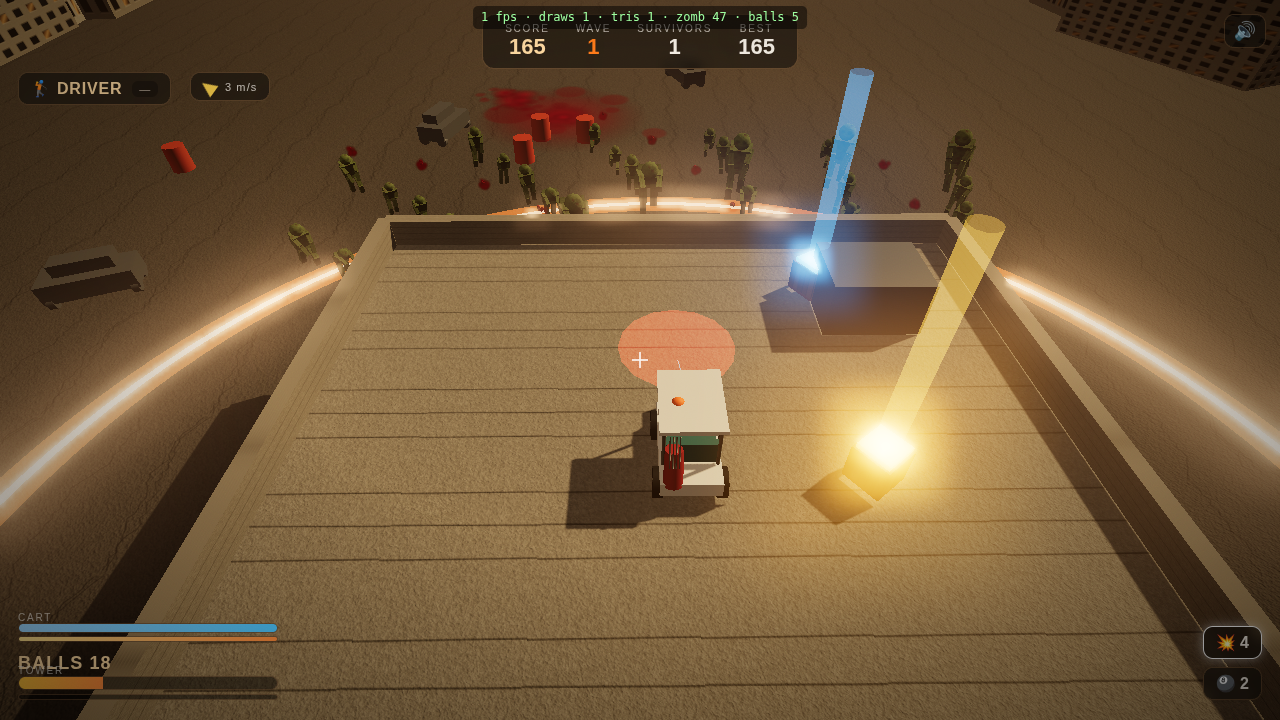
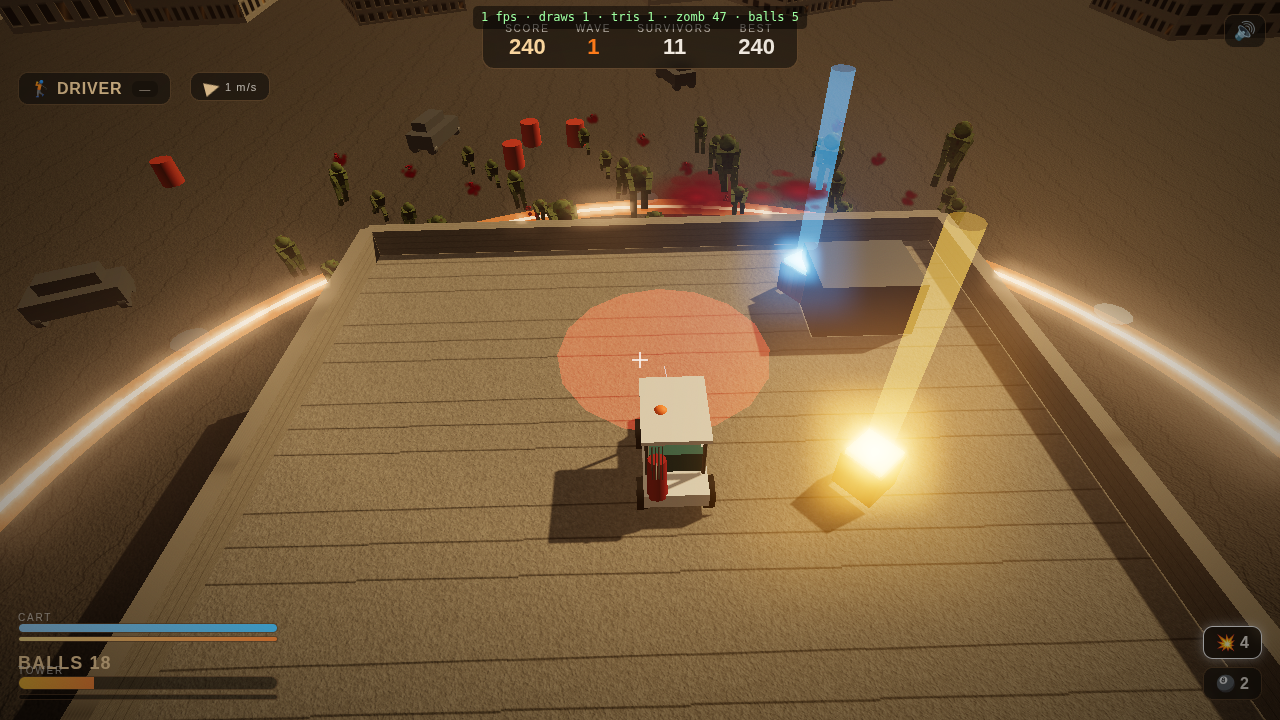
Slice 6: survivors + tower defense (rescue, turrets, spotters, barricades)
New survivors.js: rescue caged civilians (clear zombies / hit cage with a ball /
drive over) -> spendable survivor currency; staff perimeter posts as auto-turrets
(pooled projectiles -> zombies.damage, score on kill), spotters (slow), and
barricades (block + slow zombie pathing via blockAt, chewable HP). Build UX (aim
a post, cycle type, confirm/upgrade/sell) for keyboard/gamepad/touch; build menu
+ integrity bar + survivors counter HUD. Instanced rendering (~7 draw calls).
Verified: cages spawn, rescue +1 survivor, turret kills, barricade blocks; zero errors.

Claude-Session: https://claude.ai/code/session_01Mg4jfxrjoLk6LwHjJKuzM6

diff --git a/public/js/survivors.js b/public/js/survivors.js
@@ -1,0 +1,332 @@
+// =============================================================
+// Survivors — rescue + tower-defense layer.
+// Rescue caged civilians (clear zombies / hit cage with a ball / drive over),
+// spend them to staff perimeter posts as auto-turrets / spotters / barricades.
+// Instanced rendering, pooled projectiles, zero per-frame allocation.
+// =============================================================
+import * as THREE from 'three';
+import { CONFIG } from './config.js';
+import { makeRNG, mergeGeometries, clamp, TAU } from './utils.js';
+import { STR } from '../strings.js';
+
+const S = CONFIG.surv;
+const angDist = (a, b) => Math.abs(Math.atan2(Math.sin(a - b), Math.cos(a - b)));
+
+export class Survivors {
+  constructor(scene, ctx) {
+    this.ctx = ctx;
+    this.rng = makeRNG(7777);
+    this.buildMode = false;
+    this.pendingBuild = 'turret';
+    this.selectedPost = 0;
+    this._selStepT = 0;
+
+    // ---- geometries ----
+    const M = (geo, x, y, z, ry) => { const m = new THREE.Matrix4(); const q = new THREE.Quaternion(); if (ry) q.setFromAxisAngle(new THREE.Vector3(0, 1, 0), ry); m.compose(new THREE.Vector3(x, y, z), q, new THREE.Vector3(1, 1, 1)); return { geo, mat4: m }; };
+    const bodyGeo = mergeGeometries(THREE, [
+      M(new THREE.BoxGeometry(0.5, 0.9, 0.3), 0, 1.0, 0), M(new THREE.SphereGeometry(0.22, 10, 8), 0, 1.62, 0),
+      M(new THREE.BoxGeometry(0.18, 0.8, 0.18), 0.14, 0.4, 0), M(new THREE.BoxGeometry(0.18, 0.8, 0.18), -0.14, 0.4, 0),
+      M(new THREE.BoxGeometry(0.15, 0.7, 0.15), 0.34, 1.05, 0), M(new THREE.BoxGeometry(0.15, 0.7, 0.15), -0.34, 1.05, 0),
+    ]);
+    const cageGeo = mergeGeometries(THREE, [
+      M(new THREE.BoxGeometry(0.1, 2.2, 0.1), 0.7, 1.1, 0.7), M(new THREE.BoxGeometry(0.1, 2.2, 0.1), -0.7, 1.1, 0.7),
+      M(new THREE.BoxGeometry(0.1, 2.2, 0.1), 0.7, 1.1, -0.7), M(new THREE.BoxGeometry(0.1, 2.2, 0.1), -0.7, 1.1, -0.7),
+      M(new THREE.BoxGeometry(1.5, 0.12, 1.5), 0, 2.2, 0),
+    ]);
+    const turretGeo = mergeGeometries(THREE, [
+      M(new THREE.CylinderGeometry(0.85, 1.0, 0.6, 12), 0, 0.3, 0), M(new THREE.BoxGeometry(0.5, 1.3, 0.5), 0, 1.1, 0),
+      M(new THREE.BoxGeometry(0.28, 0.28, 1.8), 0, 1.6, 0.7),
+    ]);
+    const wallGeo = new THREE.BoxGeometry(9, 2.2, 0.9);
+    const padGeo = new THREE.CylinderGeometry(1.3, 1.3, 0.18, 14);
+
+    const bodyMat = new THREE.MeshStandardMaterial({ color: 0xcfe2ff, roughness: 0.6, metalness: 0.0 });
+    const cageMat = new THREE.MeshStandardMaterial({ color: 0x3a3d42, roughness: 0.6, metalness: 0.6 });
+    const turretMat = new THREE.MeshStandardMaterial({ color: CONFIG.col.turret, roughness: 0.4, metalness: 0.7 });
+    const wallMat = new THREE.MeshStandardMaterial({ color: CONFIG.col.barricade, roughness: 0.8, metalness: 0.1 });
+    const padMat = new THREE.MeshStandardMaterial({ color: 0x6a6f74, roughness: 0.5, metalness: 0.4, emissive: 0x223036, emissiveIntensity: 0.4 });
+    const spotterMat = new THREE.MeshStandardMaterial({ color: CONFIG.col.spotter, emissive: CONFIG.col.spotter, emissiveIntensity: 0.8, roughness: 0.4 });
+    const projMat = new THREE.MeshStandardMaterial({ color: 0xffe08a, emissive: 0xffb030, emissiveIntensity: 1.4, roughness: 0.4 });
+    const spotterGeo = mergeGeometries(THREE, [M(new THREE.CylinderGeometry(0.15, 0.15, 2.4, 8), 0, 1.2, 0), M(new THREE.SphereGeometry(0.42, 12, 10), 0, 2.6, 0)]);
+
+    const inst = (geo, mat, n, shadow) => { const m = new THREE.InstancedMesh(geo, mat, n); m.frustumCulled = false; m.castShadow = !!shadow; m.receiveShadow = false; m.instanceMatrix.setUsage(THREE.DynamicDrawUsage); scene.add(m); return m; };
+    this.bodyMesh = inst(bodyGeo, bodyMat, S.maxCages, true);
+    this.cageMesh = inst(cageGeo, cageMat, S.maxCages, false);
+    this.padMesh = inst(padGeo, padMat, S.postCount, false);
+    this.turretMesh = inst(turretGeo, turretMat, S.postCount, true);
+    this.wallMesh = inst(wallGeo, wallMat, S.postCount, true);
+    this.spotterMesh = inst(spotterGeo, spotterMat, S.postCount, false);
+    this.projMesh = inst(new THREE.SphereGeometry(S.projRadius, 8, 6), projMat, S.projMax, false);
+
+    // selection ring
+    this.selRing = new THREE.Mesh(new THREE.RingGeometry(1.5, 2.1, 24), new THREE.MeshBasicMaterial({ color: 0xffffff, transparent: true, opacity: 0.8, side: THREE.DoubleSide, depthWrite: false }));
+    this.selRing.rotation.x = -Math.PI / 2; this.selRing.visible = false; scene.add(this.selRing);
+
+    // ---- pools ----
+    this.surv = [];
+    for (let i = 0; i < S.maxCages; i++) this.surv.push({ state: 'idle', x: 0, z: 0, cageHP: 0, freeT: 0, homeX: 0, homeZ: 0, threatened: false, clearT: 0, phase: 0, slot: i });
+    this.posts = [];
+    for (let i = 0; i < S.postCount; i++) {
+      const ang = (i / S.postCount) * TAU;
+      this.posts.push({ id: i, angle: ang, x: Math.sin(ang) * S.postRadius, z: Math.cos(ang) * S.postRadius, yaw: ang, build: 'empty', level: 0, manned: 0, target: null, cooldown: 0, heat: 0, retargetT: 0, hp: 0, maxHP: 0, spent: 0 });
+    }
+    this.proj = [];
+    for (let i = 0; i < S.projMax; i++) this.proj.push({ active: false, x: 0, y: 0, z: 0, vx: 0, vy: 0, vz: 0, life: 0, dmg: 0 });
+    this.projCursor = 0;
+
+    // scratch
+    this._m = new THREE.Matrix4(); this._q = new THREE.Quaternion(); this._e = new THREE.Euler();
+    this._v = new THREE.Vector3(); this._s = new THREE.Vector3(); this._hidden = new THREE.Matrix4().makeScale(0, 0, 0);
+    this._up = new THREE.Vector3(0, 1, 0);
+
+    this.reset();
+  }
+
+  reset() {
+    for (const s of this.surv) s.state = 'idle';
+    for (const p of this.posts) { p.build = 'empty'; p.level = 0; p.manned = 0; p.hp = 0; p.target = null; p.spent = 0; }
+    for (const p of this.proj) p.active = false;
+    this.buildMode = false; this.pendingBuild = 'turret'; this.selectedPost = 0;
+  }
+
+  onWaveStart(wave) {
+    let active = this.surv.filter((s) => s.state !== 'idle' && s.state !== 'safe').length;
+    for (let k = 0; k < S.cagesPerWave && active < S.maxActiveCages; k++) { if (this._spawnCage()) active++; }
+  }
+  _spawnCage() {
+    const s = this.surv.find((x) => x.state === 'idle');
+    if (!s) return false;
+    const ang = this.rng() * TAU;
+    const rad = this.rng() < S.nearCageChance ? this.rng.range(28, 40) : this.rng.range(S.cageRadMin, S.cageRadMax);
+    s.x = Math.sin(ang) * rad; s.z = Math.cos(ang) * rad;
+    s.state = 'caged'; s.cageHP = S.cageHP; s.threatened = false; s.clearT = 0; s.phase = this.rng() * TAU;
+    return true;
+  }
+
+  // ---- rescue hooks ----
+  ballHit(pos, r, explosive) {
+    for (const s of this.surv) {
+      if (s.state !== 'caged') continue;
+      const dx = pos.x - s.x, dz = pos.z - s.z;
+      if (dx * dx + dz * dz < (1.6 + r) * (1.6 + r)) {
+        if (explosive) s.cageHP = 0; else s.cageHP -= S.ballCageDamage;
+        if (s.cageHP <= 0) this._free(s);
+        return true;
+      }
+    }
+    return false;
+  }
+  blockAt(angle) {
+    for (const p of this.posts) {
+      if (p.build !== 'barricade' || p.hp <= 0) continue;
+      if (angDist(angle, p.angle) < S.barricadeArc) return { blocked: true, slow: S.barricadeSlow[p.level], post: p };
+    }
+    return { blocked: false, slow: 1, post: null };
+  }
+  damageBarricade(post, amount) {
+    if (post.build !== 'barricade' || post.hp <= 0) return;
+    post.hp -= amount;
+    if (post.hp <= 0) { post.hp = 0; post.build = 'empty'; post.level = 0; post.spent = 0; this.ctx.effects.dust(this._v.set(post.x, 1, post.z)); this.ctx.game && this.ctx.game.flashNoAmmo && 0; }
+  }
+
+  _free(s) {
+    s.state = 'freeing'; s.freeT = 0;
+    this.ctx.effects.greenPuff(this._v.set(s.x, 1.6, s.z));
+    this.ctx.audio.pickup();
+  }
+  _arrive(s) {
+    s.state = 'idle';
+    this.ctx.game.addSurvivors(1);
+    this.ctx.game.addScore(S.scorePerRescue, false);
+  }
+
+  // ---- build / economy ----
+  toggleBuild() { this.buildMode = !this.buildMode; }
+  cycleBuild(dir) { const order = ['turret', 'spotter', 'barricade']; let i = order.indexOf(this.pendingBuild); i = (i + (dir < 0 ? -1 : 1) + order.length) % order.length; this.pendingBuild = order[i]; }
+  pickBuild(i) { const order = ['turret', 'spotter', 'barricade']; if (order[i]) { this.pendingBuild = order[i]; this.confirmBuild(); } }
+  stepPost(dir) { this.selectedPost = (this.selectedPost + (dir < 0 ? -1 : 1) + this.posts.length) % this.posts.length; this._selStepT = 3; }
+
+  confirmBuild() {
+    if (!this.buildMode) return;
+    const post = this.posts[this.selectedPost];
+    const type = this.pendingBuild;
+    if (post.build === 'empty') {
+      const cost = type === 'turret' ? S.turret[1].cost : type === 'spotter' ? S.spotterCost : S.barricadeCost;
+      if (!this.ctx.game.spendSurvivors(cost)) { this.ctx.game.flashNoAmmo(); return; }
+      post.build = type; post.level = 1; post.spent = cost;
+      if (type === 'turret') post.manned = S.turret[1].manned;
+      if (type === 'barricade') { post.hp = S.barricadeHP[1]; post.maxHP = S.barricadeHP[1]; }
+      this.ctx.audio.pickup();
+    } else if (post.build === type) {
+      if (type === 'turret' && post.level < 3) {
+        const cost = S.turret[post.level + 1].cost;
+        if (!this.ctx.game.spendSurvivors(cost)) { this.ctx.game.flashNoAmmo(); return; }
+        post.level++; post.spent += cost; post.manned = S.turret[post.level].manned; this.ctx.audio.pickup();
+      } else if (type === 'barricade' && post.level < 3) {
+        if (!this.ctx.game.spendSurvivors(S.barricadeUpgradeCost)) { this.ctx.game.flashNoAmmo(); return; }
+        post.level++; post.spent += S.barricadeUpgradeCost; post.hp = S.barricadeHP[post.level]; post.maxHP = S.barricadeHP[post.level]; this.ctx.audio.pickup();
+      }
+    }
+  }
+  sellSelected() {
+    const post = this.posts[this.selectedPost];
+    if (post.build === 'empty') return;
+    const refund = Math.floor(post.spent * S.sellRefundFrac);
+    if (refund > 0) this.ctx.game.addSurvivors(refund);
+    post.build = 'empty'; post.level = 0; post.manned = 0; post.hp = 0; post.spent = 0; post.target = null;
+  }
+
+  _aimedPostId() {
+    const ay = this.ctx.golf.aimYaw;
+    let best = 0, bestd = Infinity;
+    for (const p of this.posts) { const d = angDist(ay, p.angle); if (d < bestd) { bestd = d; best = p.id; } }
+    return best;
+  }
+
+  // ---- turrets ----
+  _acquire(post) {
+    const range = S.turret[post.level].range, rr = range * range;
+    let best = null, bestScore = Infinity;
+    for (const z of this.ctx.zombies.z) {
+      if (!z.alive) continue;
+      const dx = z.x - post.x, dz = z.zz - post.z, d2 = dx * dx + dz * dz;
+      if (d2 > rr) continue;
+      const score = d2 - S.perimeterBias * (CONFIG.spawnRadius - Math.hypot(z.x, z.zz));
+      if (score < bestScore) { bestScore = score; best = z; }
+    }
+    post.target = best;
+  }
+  _fire(post) {
+    const st = S.turret[post.level], t = post.target;
+    const p = this.proj[this.projCursor]; this.projCursor = (this.projCursor + 1) % this.proj.length;
+    const mx = post.x, my = S.muzzleY, mz = post.z;
+    let dx = t.x - mx, dz = t.zz - mz; const d = Math.hypot(dx, dz) || 1; dx /= d; dz /= d;
+    p.active = true; p.x = mx; p.y = my; p.z = mz; p.vx = dx * st.projSpeed; p.vy = 0; p.vz = dz * st.projSpeed;
+    p.life = S.projLife; p.dmg = st.damage; post.heat = 1;
+    this.ctx.audio.turretShot ? this.ctx.audio.turretShot() : 0;
+  }
+
+  update(dt) {
+    const zb = this.ctx.zombies, pl = this.ctx.player;
+    // reset spotter slow each frame (zombies read it next frame)
+    for (const z of zb.z) if (z.alive) z.slow = 1;
+
+    // rescue
+    for (const s of this.surv) {
+      if (s.state === 'caged') {
+        let near = 0;
+        for (const z of zb.z) { if (!z.alive) continue; const dx = z.x - s.x, dz = z.zz - s.z; if (dx * dx + dz * dz < S.clearRadius * S.clearRadius) near++; }
+        if (near > 0) { s.threatened = true; s.clearT = 0; }
+        else if (s.threatened) { s.clearT += dt; if (s.clearT >= S.clearHold) this._free(s); }
+        const cdx = pl.pos.x - s.x, cdz = pl.pos.z - s.z;
+        if (cdx * cdx + cdz * cdz < S.cartRescueRadius * S.cartRescueRadius) this._free(s);
+      } else if (s.state === 'freeing') {
+        s.freeT += dt;
+        if (s.freeT >= S.freeDur) { s.state = 'running'; const d = Math.hypot(s.x, s.z) || 1; const tgt = CONFIG.rooftopSize / 2 + 3; s.homeX = s.x / d * tgt; s.homeZ = s.z / d * tgt; this.ctx.game.flashSurvFreed?.(); }
+      } else if (s.state === 'running') {
+        s.phase += dt * 10;
+        const dx = s.homeX - s.x, dz = s.homeZ - s.z, d = Math.hypot(dx, dz) || 1;
+        const step = S.runSpeed * dt;
+        if (d < 2) this._arrive(s);
+        else { s.x += dx / d * step; s.z += dz / d * step; }
+      }
+    }
+
+    // turrets + spotters
+    for (const post of this.posts) {
+      if (post.build === 'turret') {
+        post.cooldown -= dt; post.heat = Math.max(0, post.heat - dt * 4); post.retargetT -= dt;
+        const t = post.target;
+        const valid = t && t.alive && (t.x - post.x) * (t.x - post.x) + (t.zz - post.z) * (t.zz - post.z) <= S.turret[post.level].range * S.turret[post.level].range;
+        if (!valid && post.retargetT <= 0) { this._acquire(post); post.retargetT = S.retargetInterval; }
+        if (post.target && post.target.alive && post.cooldown <= 0) {
+          this._fire(post);
+          if (post.level >= 3) this._fire(post);
+          post.cooldown = 1 / S.turret[post.level].rate;
+        }
+      } else if (post.build === 'spotter') {
+        for (const z of zb.z) { if (!z.alive) continue; const dx = z.x - post.x, dz = z.zz - post.z; if (dx * dx + dz * dz < S.spotterRadius * S.spotterRadius) z.slow = Math.min(z.slow, S.spotterSlow); }
+      }
+    }
+
+    // projectiles
+    for (const p of this.proj) {
+      if (!p.active) continue;
+      p.life -= dt; if (p.life <= 0) { p.active = false; continue; }
+      p.x += p.vx * dt; p.y += p.vy * dt; p.z += p.vz * dt;
+      const hit = zb.hitTestAt(p.x, p.z, S.projRadius);
+      if (hit) { const died = zb.damage(hit, p.dmg); if (died) this.ctx.game.addScore(CONFIG.scorePerKill, false); this.ctx.effects.hit(this._v.set(p.x, p.y, p.z)); p.active = false; }
+    }
+
+    // selection
+    if (this.buildMode) { if (this._selStepT > 0) this._selStepT -= dt; else this.selectedPost = this._aimedPostId(); }
+
+    this._render();
+  }
+
+  _render() {
+    // survivors (caged/freeing/running) + cages
+    for (let i = 0; i < this.surv.length; i++) {
+      const s = this.surv[i];
+      const show = s.state === 'caged' || s.state === 'freeing' || s.state === 'running';
+      if (!show) { this.bodyMesh.setMatrixAt(i, this._hidden); this.cageMesh.setMatrixAt(i, this._hidden); continue; }
+      const yaw = s.state === 'running' ? Math.atan2(s.homeX - s.x, s.homeZ - s.z) : 0;
+      const bob = s.state === 'running' ? Math.abs(Math.sin(s.phase)) * 0.12 : 0;
+      this._q.setFromEuler(this._e.set(0, yaw, 0));
+      this._m.compose(this._v.set(s.x, bob, s.z), this._q, this._s.set(1, 1, 1));
+      this.bodyMesh.setMatrixAt(i, this._m);
+      if (s.state === 'caged') { this._m.compose(this._v.set(s.x, 0, s.z), this._q.identity(), this._s.set(1, 1, 1)); this.cageMesh.setMatrixAt(i, this._m); }
+      else this.cageMesh.setMatrixAt(i, this._hidden);
+    }
+    this.bodyMesh.instanceMatrix.needsUpdate = true; this.cageMesh.instanceMatrix.needsUpdate = true;
+
+    // posts
+    for (let i = 0; i < this.posts.length; i++) {
+      const p = this.posts[i];
+      this._q.setFromEuler(this._e.set(0, p.yaw, 0));
+      this._m.compose(this._v.set(p.x, 0.1, p.z), this._q, this._s.set(1, 1, 1));
+      this.padMesh.setMatrixAt(i, this._m);
+      const tQ = this._q.clone();
+      this.turretMesh.setMatrixAt(i, p.build === 'turret' ? this._composePost(p, 1 + p.level * 0.12) : this._hidden);
+      this.spotterMesh.setMatrixAt(i, p.build === 'spotter' ? this._composePost(p, 1) : this._hidden);
+      this.wallMesh.setMatrixAt(i, p.build === 'barricade' ? this._composeWall(p) : this._hidden);
+    }
+    this.padMesh.instanceMatrix.needsUpdate = true; this.turretMesh.instanceMatrix.needsUpdate = true;
+    this.spotterMesh.instanceMatrix.needsUpdate = true; this.wallMesh.instanceMatrix.needsUpdate = true;
+
+    // projectiles
+    for (let i = 0; i < this.proj.length; i++) {
+      const p = this.proj[i];
+      if (!p.active) { this.projMesh.setMatrixAt(i, this._hidden); continue; }
+      this._m.compose(this._v.set(p.x, p.y, p.z), this._q.identity(), this._s.set(1, 1, 1));
+      this.projMesh.setMatrixAt(i, this._m);
+    }
+    this.projMesh.instanceMatrix.needsUpdate = true;
+
+    // selection ring
+    if (this.buildMode) { const p = this.posts[this.selectedPost]; this.selRing.visible = true; this.selRing.position.set(p.x, 0.2, p.z); }
+    else this.selRing.visible = false;
+  }
+  _composePost(p, scl) { this._q.setFromEuler(this._e.set(0, Math.atan2(-p.x, -p.z), 0)); this._m.compose(this._v.set(p.x, 0.2, p.z), this._q, this._s.set(scl, scl, scl)); return this._m; }
+  _composeWall(p) { this._q.setFromEuler(this._e.set(0, p.angle, 0)); this._m.compose(this._v.set(Math.sin(p.angle) * CONFIG.buildingRadius, 1.1, Math.cos(p.angle) * CONFIG.buildingRadius), this._q, this._s.set(1, 1, 1)); return this._m; }
+
+  snapshotBuild() {
+    let walls = 0, turrets = 0, hpSum = 0, hpMax = 0;
+    for (const p of this.posts) { if (p.build === 'barricade') { walls++; hpSum += p.hp; hpMax += p.maxHP; } if (p.build === 'turret') turrets++; }
+    const integrity = hpMax > 0 ? hpSum / hpMax : 0;
+    if (!this.buildMode) return { integrity, turrets, walls };
+    const post = this.posts[this.selectedPost];
+    const sv = this.ctx.game.survivors;
+    const opt = (key, label, cost) => ({ key, label: `${label} ${cost}🧍`, cost, affordable: sv >= cost, sel: this.pendingBuild === key });
+    const options = [
+      opt('turret', STR.buildTurret, S.turret[1].cost),
+      opt('spotter', STR.buildSpotter, S.spotterCost),
+      opt('barricade', STR.buildBarricade, S.barricadeCost),
+    ];
+    let status = 'EMPTY';
+    if (post.build === 'turret') status = `TURRET Lv${post.level}`;
+    else if (post.build === 'barricade') status = `BARRICADE Lv${post.level} · ${Math.round(post.hp)}hp`;
+    else if (post.build === 'spotter') status = 'SPOTTER';
+    return { integrity, turrets, walls, postLabel: `${STR.buildPost} ${this.selectedPost + 1} · ${status}`, options, status };
+  }
+}

diff --git a/public/js/main.js b/public/js/main.js
@@ -20,6 +20,7 @@ import { HUD } from './hud.js';
 import { PostFX, Shake } from './postfx.js';
 import { Gore } from './gore.js';
 import { Props } from './props.js';
+import { Survivors } from './survivors.js';
 
 const canvas = document.getElementById('c');
 const renderer = new THREE.WebGLRenderer({ canvas, antialias: true, powerPreference: 'high-performance' });
@@ -48,8 +49,8 @@ ctx.player = new Player(scene, ctx);
 ctx.zombies = new Zombies(scene, ctx);
 ctx.powerups = new PowerUps(scene, ctx);
 ctx.golf = new Golf(scene, ctx);
+ctx.survivors = new Survivors(scene, ctx);
 ctx.props = new Props(scene, ctx);
-// ctx.survivors added in a later slice
 
 const hud = new HUD();
 const input = new Input(canvas);
@@ -76,6 +77,8 @@ class Game {
       buildCycle: (d) => { if (this.state === 'playing') ctx.survivors?.cycleBuild(d); },
       buildConfirm: () => { if (this.state === 'playing') ctx.survivors?.confirmBuild(); },
       buildSell: () => { if (this.state === 'playing') ctx.survivors?.sellSelected(); },
+      stepPost: (d) => { if (this.state === 'playing') ctx.survivors?.stepPost(d); },
+      buildPick: (i) => { if (this.state === 'playing') ctx.survivors?.pickBuild(i); },
     });
     hud.setCallbacks({
       start: () => this.start(), resume: () => this.resume(),

diff --git a/public/js/hud.js b/public/js/hud.js
@@ -87,8 +87,8 @@ export class HUD {
       bo.addEventListener('touchcancel', br, { passive: false });
       bo.addEventListener('mousedown', bp); bo.addEventListener('mouseup', br);
     }
-    tap('build-prev', () => input.handlers.buildCycle?.(-1));
-    tap('build-next', () => input.handlers.buildCycle?.(1));
+    tap('build-prev', () => input.handlers.stepPost?.(-1));
+    tap('build-next', () => input.handlers.stepPost?.(1));
     if (this.el.buildTypes) this.el.buildTypes.addEventListener('click', (e) => {
       const c = e.target.closest('.build-chip'); if (c) input.handlers.buildPick?.(+c.dataset.i);
     });
